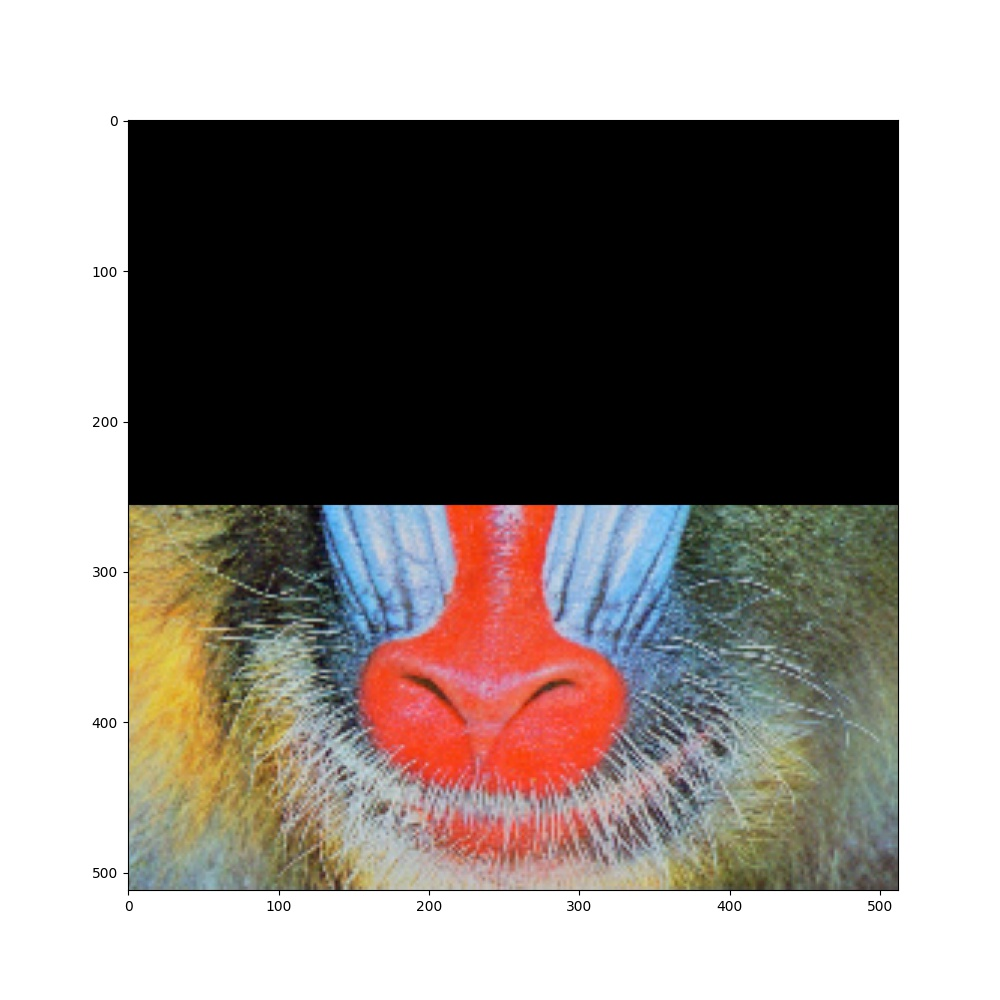
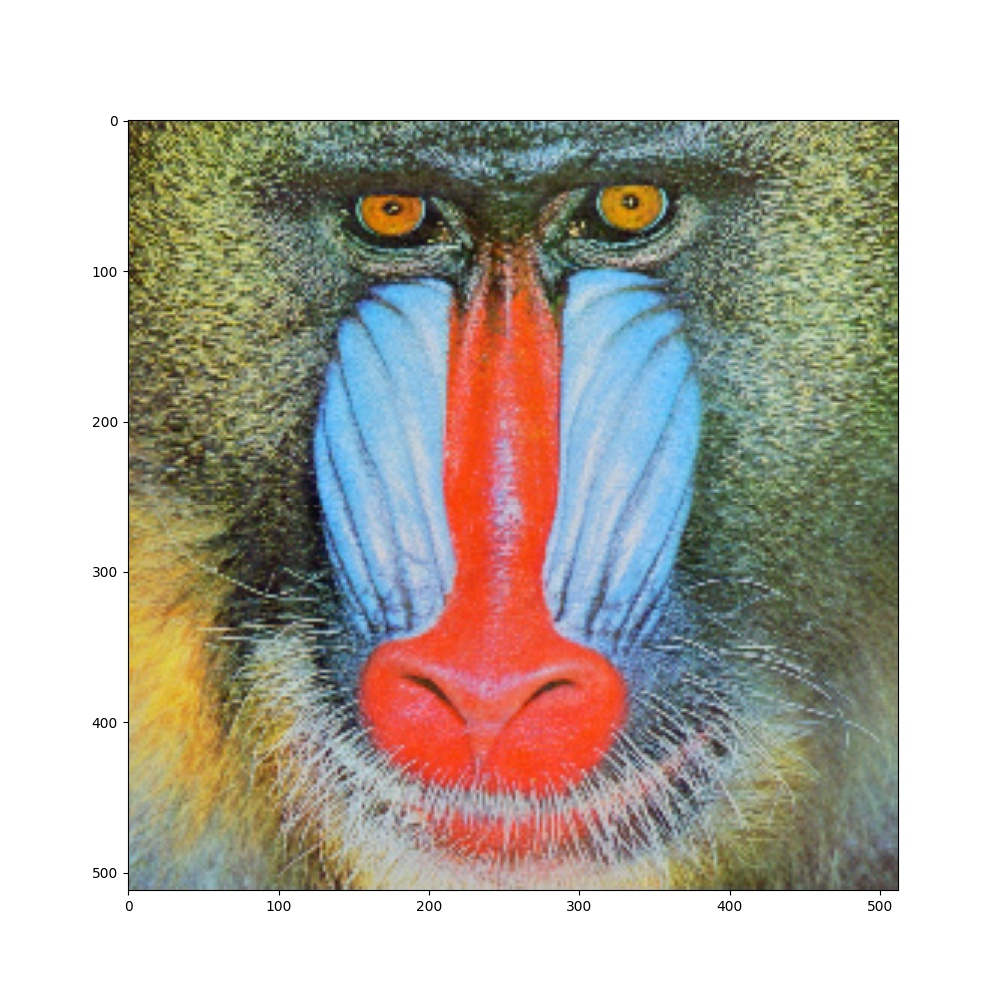
[!!!] WIN!

Changed region(s): [[0.124, 0.124, 0.899, 0.527]]

diff --git a/PyCharm/quadratic_processing.py b/PyCharm/quadratic_processing.py
@@ -120,9 +120,9 @@ def process_quadratic():
     shared_img = mp.Array('i', n * m * 3)
 
     p1 = mp.Process(target=linear_parallel_enlarge_threads,
-                    args=(shared_img_cutted, n // 2, m // 2, 3, 1, 2, shared_img,))
+                    args=(shared_img_cutted, n // 2, m // 2, 3, 0, 2, shared_img,))
     p2 = mp.Process(target=linear_parallel_enlarge_threads,
-                    args=(shared_img_cutted, n // 2, m // 2, 3, 2, 2, shared_img,))
+                    args=(shared_img_cutted, n // 2, m // 2, 3, 1, 2, shared_img,))
 
     p1.start()
     p2.start()
